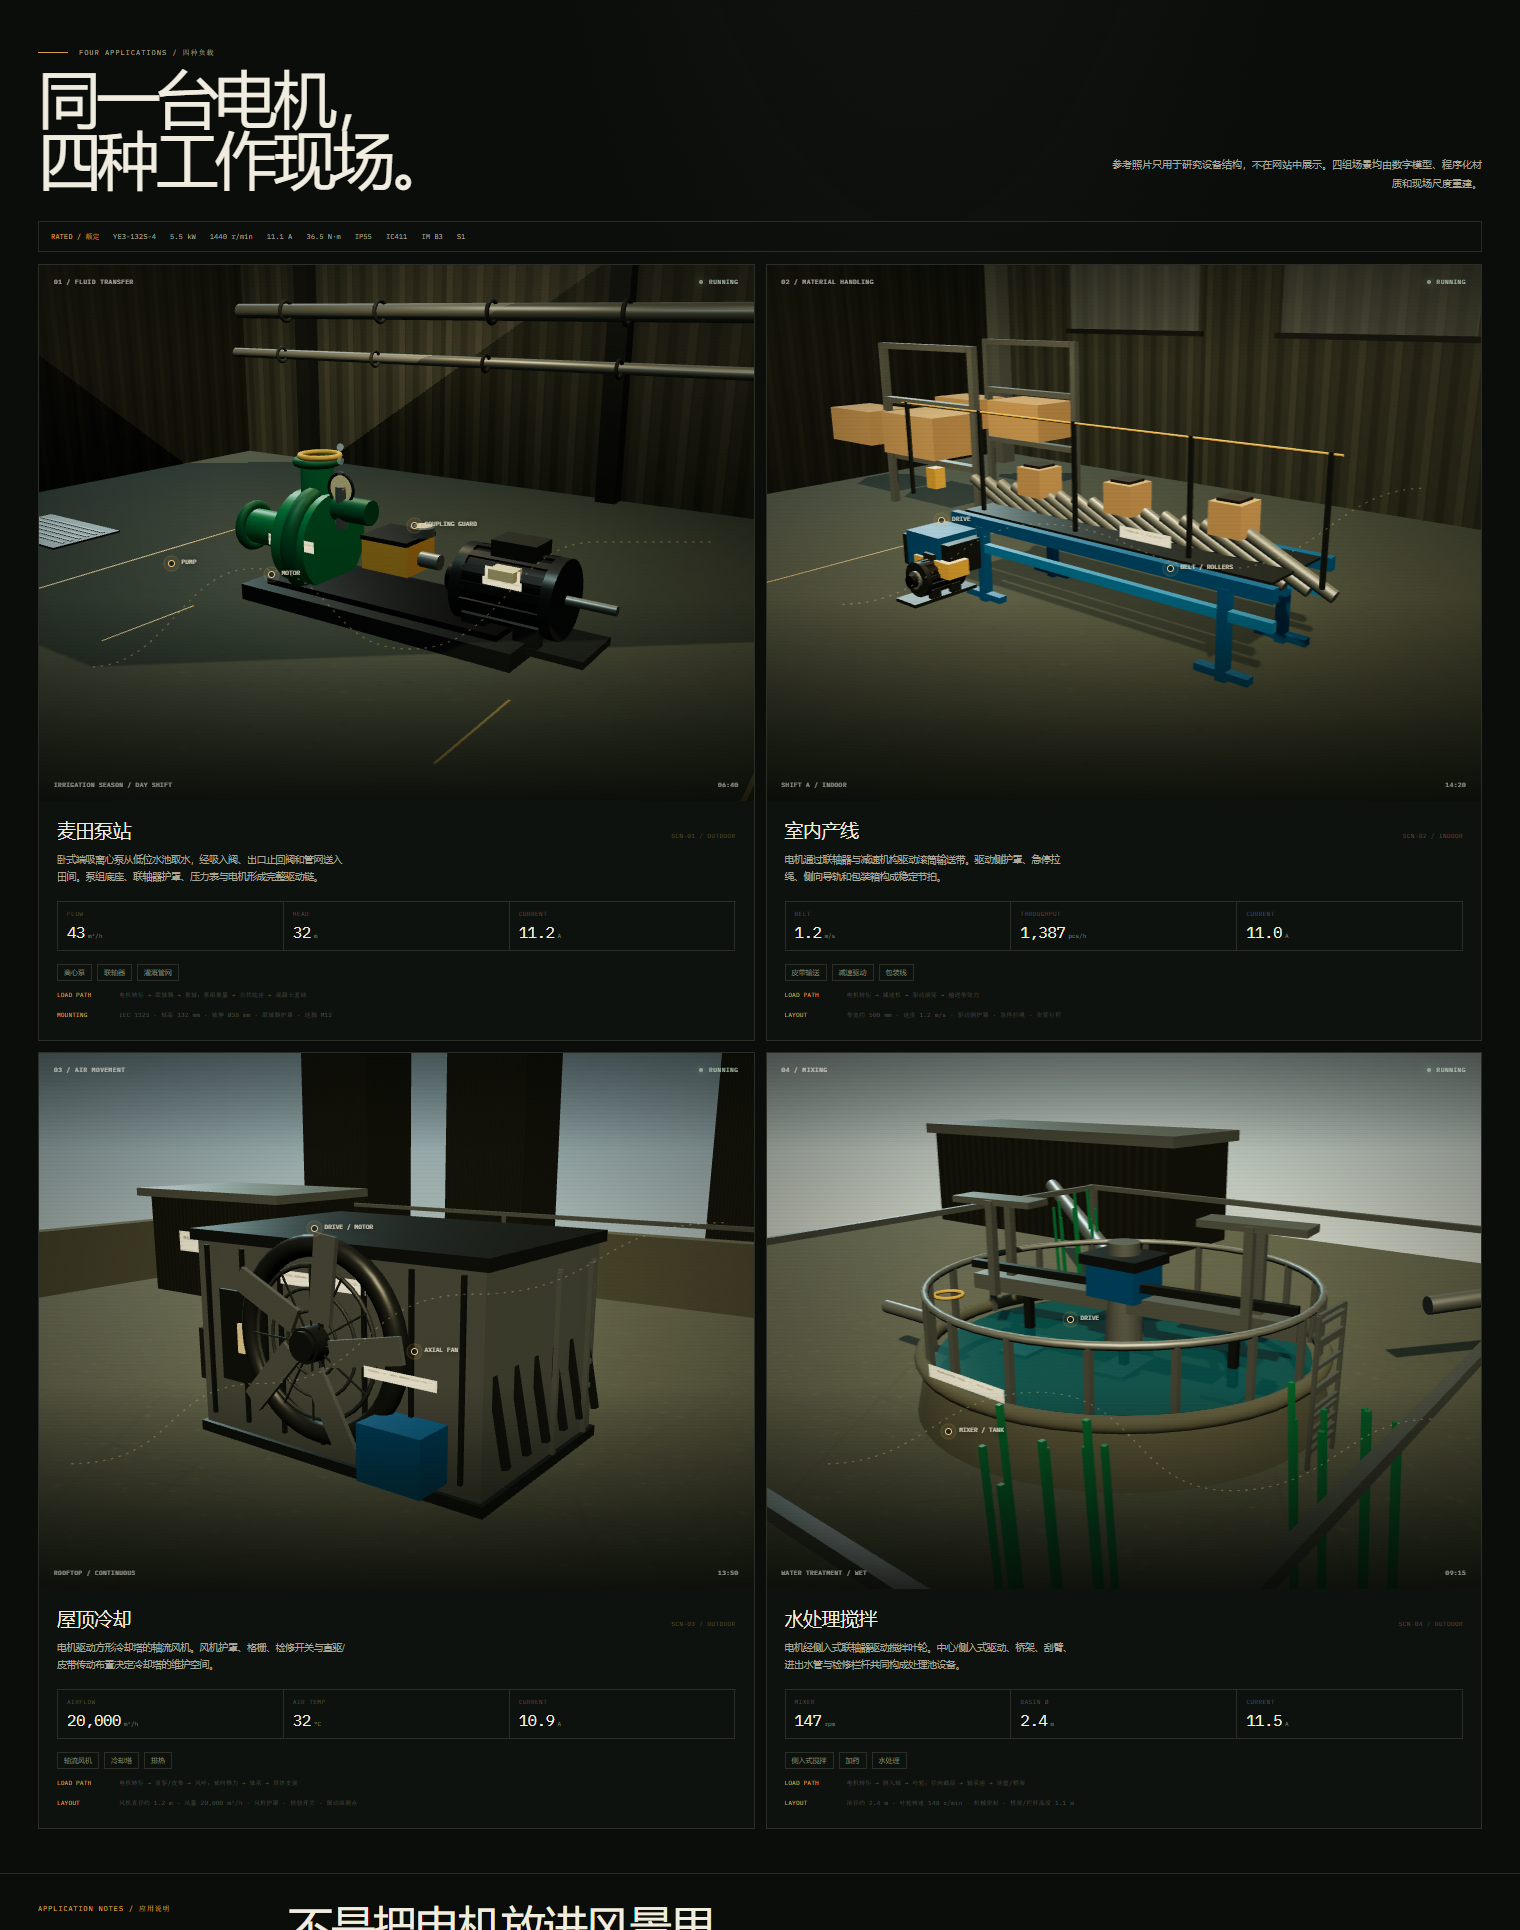
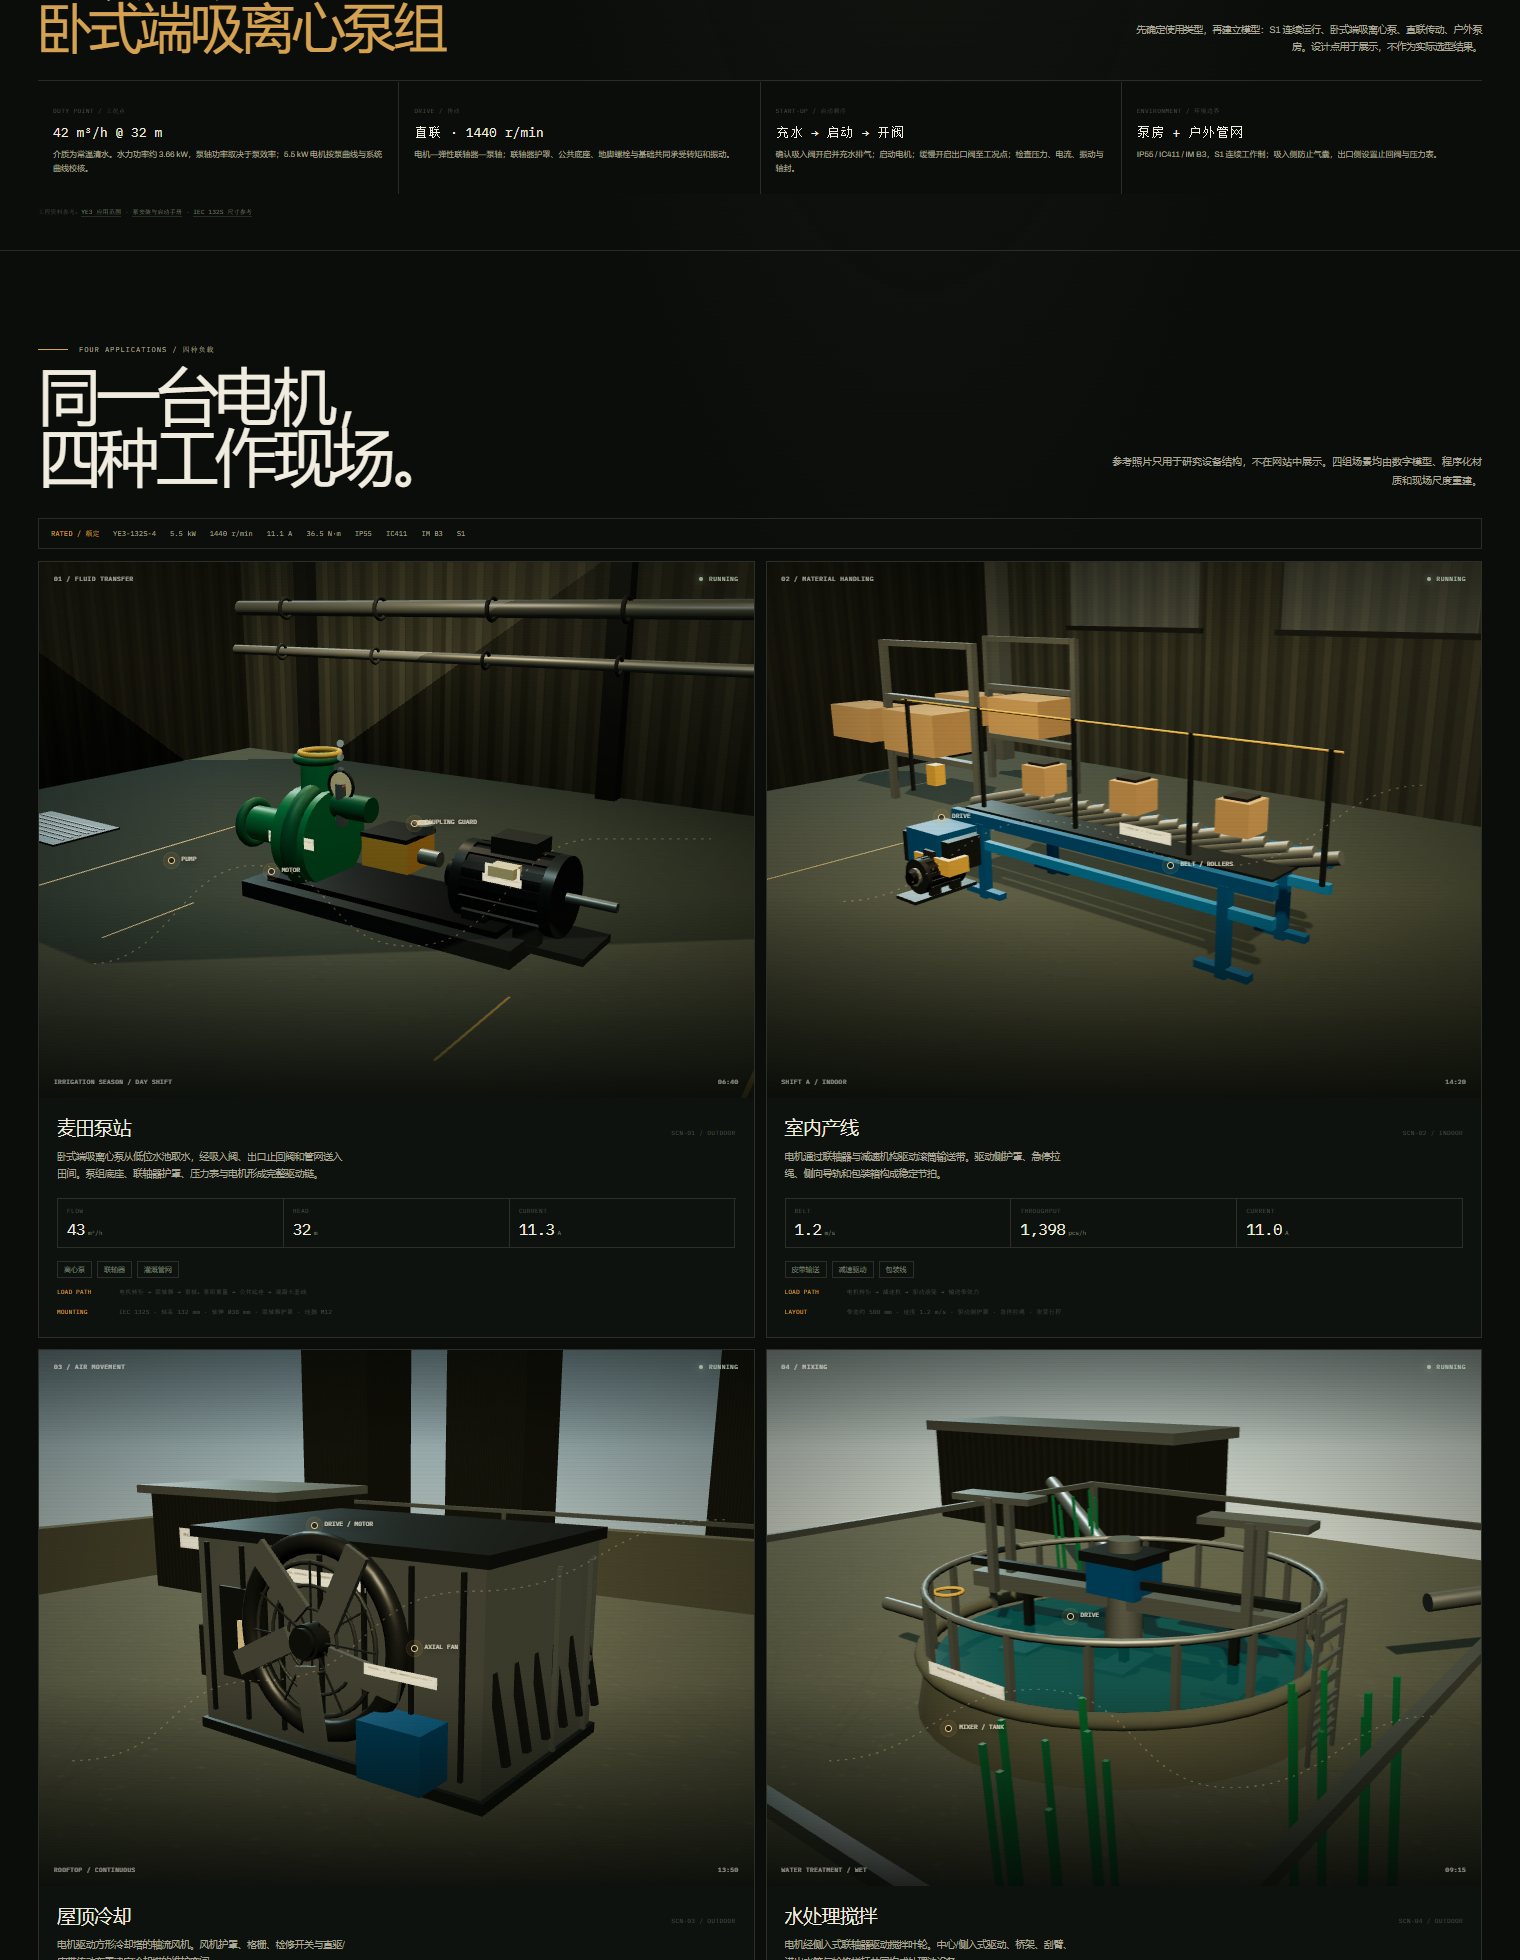
Add pump station simulation brief and remove all reference images

diff --git a/src/scenarios/photo.css b/src/scenarios/photo.css
@@ -170,6 +170,35 @@ h1 em { color: var(--accent); font-style: normal; }
 .hero-credit { position: absolute; right: var(--gut); top: 23px; color: rgba(232, 228, 211, .52); font-family: var(--mono); font-size: 6px; letter-spacing: .06em; }
 
 .applications { padding: clamp(48px, 7vw, 94px) var(--gut) 44px; }
+.brief {
+  padding: 42px var(--gut) 34px;
+  border-bottom: 1px solid var(--line);
+}
+.brief-head {
+  display: flex;
+  justify-content: space-between;
+  align-items: flex-end;
+  gap: 40px;
+  padding-bottom: 24px;
+  border-bottom: 1px solid var(--line);
+}
+.brief-head h2 {
+  margin-top: 13px;
+  font-size: clamp(30px, 3.8vw, 54px);
+  line-height: 1;
+  font-weight: 530;
+  letter-spacing: -.06em;
+}
+.brief-head h2 em { color: var(--accent); font-style: normal; }
+.brief-lede { max-width: 360px; color: var(--muted); font-size: 9.5px; line-height: 1.8; text-align: right; }
+.brief-grid { display: grid; grid-template-columns: repeat(4, 1fr); gap: 1px; margin-top: 1px; background: var(--line); }
+.brief-grid > div { padding: 17px 15px 19px; background: var(--bg); }
+.brief-grid span { color: var(--faint); font-family: var(--mono); font-size: 6px; letter-spacing: .08em; }
+.brief-grid b { display: block; margin-top: 8px; color: var(--ink); font-family: var(--mono); font-size: 13px; font-weight: 400; }
+.brief-grid p { margin-top: 7px; color: var(--muted); font-size: 8px; line-height: 1.7; }
+.brief-source { margin-top: 14px; color: var(--faint); font-family: var(--mono); font-size: 6px; letter-spacing: .03em; }
+.brief-source a { color: var(--dim); border-bottom: 1px solid var(--line); }
+.brief-source a:hover { color: var(--accent); }
 .section-head { display: flex; justify-content: space-between; align-items: flex-end; gap: 40px; margin-bottom: 28px; }
 .section-head h2 { margin-top: 14px; font-size: clamp(34px, 4.2vw, 63px); line-height: .97; font-weight: 530; letter-spacing: -.065em; }
 .section-head > p { max-width: 370px; color: var(--muted); font-size: 10px; line-height: 1.85; text-align: right; }
@@ -384,6 +413,9 @@ h1 em { color: var(--accent); font-style: normal; }
 @media (max-width: 900px) {
   .hero-inner { width: 78%; }
   .hero-index { display: none; }
+  .brief-head { display: block; }
+  .brief-lede { margin-top: 14px; text-align: left; }
+  .brief-grid { grid-template-columns: 1fr 1fr; }
   .application-grid { grid-template-columns: 1fr; }
   .visual { aspect-ratio: 16 / 10; }
   .method-head { grid-template-columns: 1fr; gap: 14px; }

diff --git a/scenarios/index.html b/scenarios/index.html
@@ -44,6 +44,23 @@
       </div>
     </section>
 
+    <section class="brief" id="brief">
+      <div class="brief-head">
+        <div>
+          <div class="eyebrow"><span></span> SIMULATION TYPE / 模拟类型</div>
+          <h2>连续灌溉泵站<br><em>卧式端吸离心泵组</em></h2>
+        </div>
+        <p class="brief-lede">先确定使用类型，再建立模型：S1 连续运行、卧式端吸离心泵、直联传动、户外泵房。设计点用于展示，不作为实际选型结果。</p>
+      </div>
+      <div class="brief-grid">
+        <div><span>DUTY POINT / 工况点</span><b>42 m³/h @ 32 m</b><p>介质为常温清水。水力功率约 3.66 kW，泵轴功率取决于泵效率；5.5 kW 电机按泵曲线与系统曲线校核。</p></div>
+        <div><span>DRIVE / 传动</span><b>直联 · 1440 r/min</b><p>电机—弹性联轴器—泵轴；联轴器护罩、公共底座、地脚螺栓与基础共同承受转矩和振动。</p></div>
+        <div><span>START-UP / 启动顺序</span><b>充水 → 启动 → 开阀</b><p>确认吸入阀开启并充水排气；启动电机；缓慢开启出口阀至工况点；检查压力、电流、振动与轴封。</p></div>
+        <div><span>ENVIRONMENT / 环境边界</span><b>泵房 + 户外管网</b><p>IP55 / IC411 / IM B3，S1 连续工作制；吸入侧防止气囊，出口侧设置止回阀与压力表。</p></div>
+      </div>
+      <p class="brief-source">工程资料参考：<a href="https://www.changli-electric.com/low-voltage-motors/ye3-series-three-phase-asynchronous-motors.html" target="_blank" rel="noreferrer">YE3 应用范围</a> · <a href="http://www.gouldspumps.com/ittgp/medialibrary/goulds/website/Literature/Instruction%20and%20Operation%20Manuals/Alphabetical/IOM-ICM-ICMP-en-us-2024-02_A4.pdf" target="_blank" rel="noreferrer">泵安装与启动手册</a> · <a href="https://yaodamotor.com/ie3-to-ie4-motor-replacement/" target="_blank" rel="noreferrer">IEC 132S 尺寸参考</a></p>
+    </section>
+
     <section class="applications" id="applications">
       <div class="section-head">
         <div>
